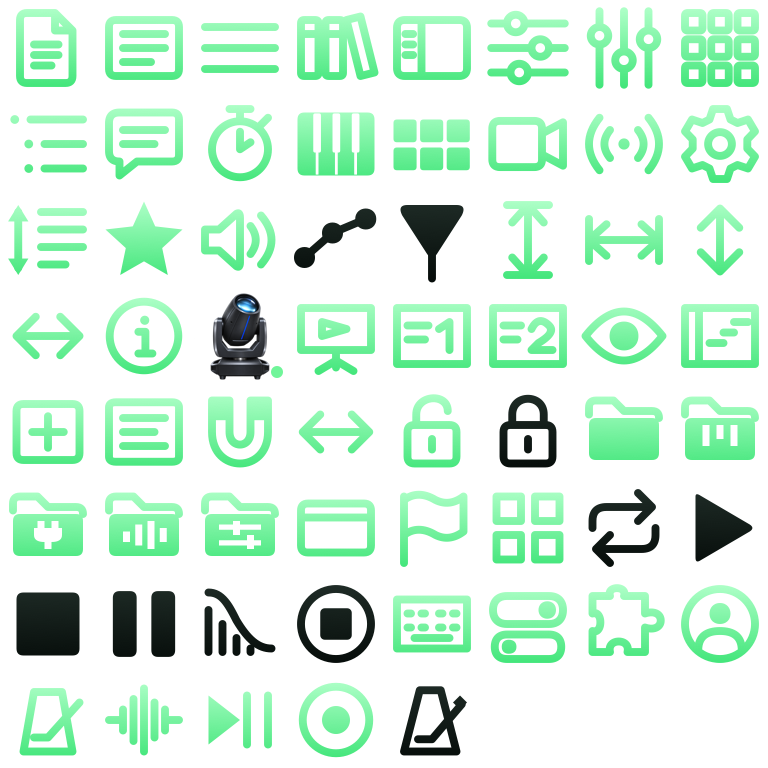
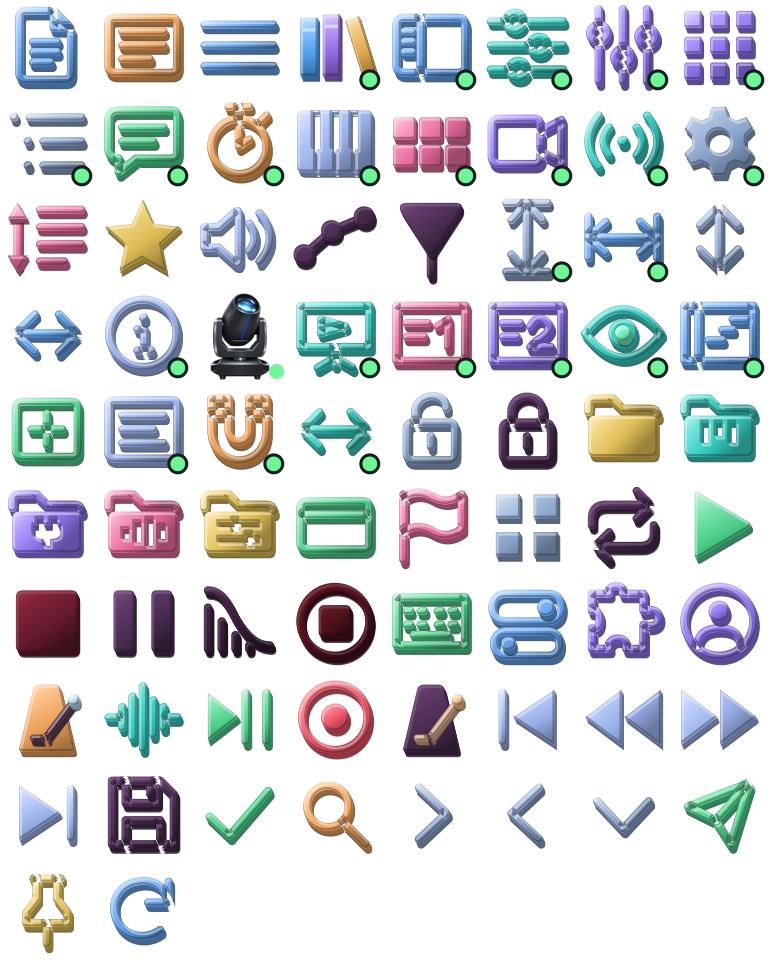
Use shared color 3D PNG artwork for the CatLive controls

diff --git a/JarasLive/scripts/generate-control-icons.swift b/JarasLive/scripts/generate-control-icons.swift
@@ -1,4 +1,5 @@
 // Run from the JarasLive root with swift scripts/generate-control-icons.swift.
+// Pass Android's drawable-nodpi directory to also export the transport drawables.
 import AppKit
 import ImageIO
 
@@ -30,6 +31,137 @@ func path(_ definition: String) -> CGPath {
     return path
 }
 
+struct Material {
+    let color: UInt32
+    var darkInk = false
+
+    private var channels: [CGFloat] {
+        [16, 8, 0].map { CGFloat((color >> $0) & 255) / 255 }
+    }
+
+    func shade(_ amount: CGFloat, alpha: CGFloat = 1) -> [CGFloat] {
+        channels.map { amount >= 0 ? $0 + (1 - $0) * amount : $0 * (1 + amount) } + [alpha]
+    }
+}
+
+let materials: [UInt32: [String]] = [
+    0x6cafff: ["doc.text", "line.3.horizontal", "sidebar.left", "fitTime", "timelineZoomAxis", "midiPreview", "tabs.mappings", "refresh"],
+    0x39dbce: ["slider.horizontal.3", "dot.radiowaves.left.and.right", "library.instruments", "itemTimebase", "projection", "eye", "tabs.waveform"],
+    0x997cff: ["pause", "slider.vertical.3", "square.grid.3x3", "video", "automationLanes", "teleprompter2", "library.plugins", "tabs.plugins", "tabs.account"],
+    0xffad61: ["stopwatch", "magnet", "note.text", "fadeout", "metronome", "tabs.metronome", "search"],
+    0x52df94: ["play", "addTrack", "tabs.transport", "text.bubble", "rectangle", "tabs.actions", "save", "check", "send"],
+    0xf773a8: ["square.grid.3x2.fill", "flag", "library.samplers", "editCursor", "teleprompter1", "arrow.up.and.down.text.horizontal"],
+    0xf1cc5c: ["folder.fill", "books.vertical", "library.presets", "star.fill", "loop", "lock", "pin"],
+    0xff5a6e: ["record", "tabs.record", "stopall"],
+    0x93afd9: ["gearshape", "fitTracks", "trackHeightAxis", "list.bullet.indent", "square.grid.2x2", "unlock", "chevron.left", "chevron.right", "chevron.down"],
+    0xa5befa: ["pianokeys", "speaker.wave.2", "timelineLanes", "info.circle", "projectStart", "previousTimelinePoint", "nextTimelinePoint", "projectEnd"],
+]
+let iconColors = Dictionary(uniqueKeysWithValues: materials.flatMap { color, names in names.map { ($0, color) } })
+let indicators: Set<String> = [
+    "books.vertical", "sidebar.left", "slider.horizontal.3", "slider.vertical.3", "square.grid.3x3",
+    "list.bullet.indent", "text.bubble", "stopwatch", "pianokeys", "square.grid.3x2.fill", "video",
+    "dot.radiowaves.left.and.right", "gearshape", "fitTracks", "fitTime", "info.circle",
+    "projection", "teleprompter1", "teleprompter2", "eye", "midiPreview", "timelineLanes",
+    "magnet", "itemTimebase"
+]
+
+func stroke(_ path: CGPath, width: CGFloat) -> CGPath {
+    path.copy(strokingWithWidth: width, lineCap: .round, lineJoin: .round, miterLimit: 2)
+}
+
+func transform(_ path: CGPath, dx: CGFloat, dy: CGFloat) -> CGPath {
+    var offset = CGAffineTransform(translationX: dx, y: dy)
+    return path.copy(using: &offset)!
+}
+
+func paintMaterial(_ context: CGContext, _ shape: CGPath, _ material: Material, prominent: Bool = false) {
+    guard !shape.isEmpty else { return }
+    let bounds = shape.boundingBoxOfPath
+    let shadow = material.shade(material.darkInk ? -0.83 : -0.71, alpha: 0.78)
+    context.setFillColor(CGColor(colorSpace: space, components: shadow)!)
+    context.addPath(transform(shape, dx: 0.7, dy: 1.6))
+    context.drawPath(using: .eoFill)
+    context.setFillColor(CGColor(colorSpace: space, components: material.shade(material.darkInk ? -0.57 : -0.41))!)
+    for step in [1.15, 0.80, 0.45] {
+        context.addPath(transform(shape, dx: CGFloat(step) * 0.55, dy: CGFloat(step)))
+        context.drawPath(using: .eoFill)
+    }
+
+    context.saveGState()
+    context.addPath(shape)
+    context.clip(using: .evenOdd)
+    let brightness: [CGFloat] = material.darkInk ? [0.10, -0.07, -0.30, -0.57] :
+        [prominent ? 0.70 : 0.55, prominent ? 0.30 : 0.16, -0.08, -0.36]
+    let gradient = CGGradient(colorSpace: space, colorComponents: brightness.flatMap { material.shade($0) },
+                              locations: [0, 0.24, 0.65, 1], count: 4)!
+    context.drawLinearGradient(gradient, start: CGPoint(x: bounds.minX, y: bounds.minY),
+                               end: CGPoint(x: bounds.maxX * 0.65 + bounds.minX * 0.35, y: bounds.maxY),
+                               options: [.drawsBeforeStartLocation, .drawsAfterEndLocation])
+
+    // A thin highlight on the upper bevel and a dark lower edge read as depth
+    // even when the toolbar presents the resulting PNG at 16 points.
+    context.setFillColor(CGColor(colorSpace: space, components: material.shade(material.darkInk ? 0.25 : 0.8, alpha: 0.48))!)
+    context.addPath(stroke(transform(shape, dx: 0.40, dy: 0.65), width: 0.7))
+    context.fillPath()
+    context.setFillColor(CGColor(colorSpace: space, components: material.shade(-0.70, alpha: 0.44))!)
+    context.addPath(stroke(transform(shape, dx: -0.24, dy: -0.48), width: 0.68))
+    context.fillPath()
+    context.restoreGState()
+}
+
+func renderSymbol(_ context: CGContext, name: String, outline: CGPath, filled: CGPath, active: Bool) {
+    let darkInk = name == "fadeout" ||
+        (active && ["pause", "editCursor", "automationLanes", "lock", "loop", "record", "stopall", "metronome", "save"].contains(name))
+    var color = iconColors[name, default: 0x90adcf]
+    if darkInk {
+        switch name {
+        case "record": color = 0x681827
+        case "stopall": color = 0x8e2540
+        case "fadeout" where active: color = 0x4c274d
+        default: color = 0x693f72
+        }
+    }
+    let material = Material(color: color, darkInk: darkInk)
+    var fills = filled
+    var lines = outline
+    switch name {
+    case "record" where active:
+        fills = CGPath(roundedRect: CGRect(x: 7.3, y: 7.3, width: 9.4, height: 9.4), cornerWidth: 1.5, cornerHeight: 1.5, transform: nil)
+    case "editCursor" where !active:
+        fills = stroke(filled, width: 2.1)
+    case "gearshape", "square.grid.2x2", "square.grid.3x3":
+        fills = outline
+        lines = CGMutablePath()
+    case "metronome", "tabs.metronome":
+        let caseBody = path("m 4 21 l 8 4 q 8.4 2.5 10 2.5 l 14 2.5 q 15.6 2.5 16 4 l 20 21 q 20.2 22 19 22 l 5 22 q 3.8 22 4 21 z")
+        paintMaterial(context, caseBody, material, prominent: active)
+        let pendulum = stroke(path("m 11.5 18 l 19.8 7 m 8 18 l 12 18"), width: 1.9)
+        paintMaterial(context, pendulum, Material(color: darkInk ? 0xe5b394 : 0x644157), prominent: active)
+        let weight = CGPath(ellipseIn: CGRect(x: 18.1, y: 5.3, width: 3.4, height: 3.4), transform: nil)
+        paintMaterial(context, weight, Material(color: darkInk ? 0xffcf92 : 0xc6edff), prominent: active)
+        return
+    case "books.vertical":
+        let covers: [(String, UInt32)] = [
+            ("m 2 4 l 7 4 l 7 21 l 2 21 z", 0x55aaff),
+            ("m 8.5 3 l 13.5 3 l 13.5 21 l 8.5 21 z", 0x9b70ef),
+            ("m 15 5 l 19 3.5 l 24 19.5 l 20 21 z", 0xf0b452)
+        ]
+        for (book, tint) in covers { paintMaterial(context, path(book), Material(color: tint), prominent: active) }
+        context.setFillColor(CGColor(colorSpace: space, components: [0.9, 0.94, 1, 0.65])!)
+        context.fill(CGRect(x: 2.7, y: 7, width: 3.6, height: 1))
+        context.fill(CGRect(x: 9.1, y: 6, width: 3.8, height: 1))
+        return
+    default:
+        break
+    }
+    paintMaterial(context, stroke(lines, width: active ? 2.35 : 2.15), material, prominent: active)
+    paintMaterial(context, fills, material, prominent: active)
+    if active && name == "eye" {
+        paintMaterial(context, CGPath(ellipseIn: CGRect(x: 9.6, y: 9.6, width: 4.8, height: 4.8), transform: nil),
+                      Material(color: 0x76ffc8), prominent: true)
+    }
+}
+
 let tile = 96, columns = 8
 let width = columns * tile, height = ((rows.count + columns - 1) / columns) * tile
 let space = CGColorSpace(name: CGColorSpace.sRGB)!
@@ -50,43 +182,14 @@ for active in [false, true] {
         let name = row[0]
         ctx.saveGState()
         ctx.translateBy(x: CGFloat(index % columns * 24), y: CGFloat(index / columns * 24))
-        // A shared optical inset leaves room for rounded line caps at every scale.
-        ctx.translateBy(x: 1.5, y: 1.5)
-        ctx.scaleBy(x: 0.875, y: 0.875)
-        let outline = path(row[1]), filled = path(row[2])
-        let darkInk = ["pause", "fadeout"].contains(name) || (active && ["editCursor", "automationLanes", "lock", "loop", "record", "play", "stopall", "metronome"].contains(name))
-        let folder = name.hasPrefix("library.") || name == "folder.fill"
-        let top: [CGFloat] = name == "record" && !active ? [1.0,0.39,0.36] : folder && !active ? [0.49,0.91,0.60] : darkInk ? [0.12,0.17,0.15] : active ? [0.68,1,0.78] : [0.95,0.96,0.98]
-        let bottom: [CGFloat] = name == "record" && !active ? [0.92,0.12,0.12] : folder && !active ? [0.19,0.65,0.34] : darkInk ? [0.025,0.05,0.04] : active ? [0.26,0.90,0.48] : [0.66,0.70,0.75]
-        let gradient = CGGradient(colorSpace: space, colorComponents: top + [1] + bottom + [1],
-                                  locations: [0, 1], count: 2)!
-        func ink(_ shape: CGPath, evenOdd: Bool = false) {
-            guard !shape.isEmpty else { return }
-            ctx.saveGState()
-            ctx.addPath(shape)
-            ctx.clip(using: evenOdd ? .evenOdd : .winding)
-            ctx.drawLinearGradient(gradient, start: CGPoint(x: 12,y: 1), end: CGPoint(x: 12,y: 23),
-                                   options: [.drawsBeforeStartLocation, .drawsAfterEndLocation])
-            ctx.restoreGState()
-        }
-        func stroke(_ shape: CGPath, _ width: CGFloat) {
-            ink(shape.copy(strokingWithWidth: width, lineCap: .round, lineJoin: .round, miterLimit: 2))
-        }
-        if active && name == "record" {
-            ink(CGPath(roundedRect: CGRect(x: 7.5, y: 7.5, width: 9, height: 9), cornerWidth: 1.3, cornerHeight: 1.3, transform: nil))
-        } else if !active && name == "editCursor" {
-            stroke(filled, 1.8)
-        } else {
-            ink(filled, evenOdd: true)
-        }
-        if active && name == "pause" { stroke(filled, 0.8) }
-        stroke(outline, active ? 2.25 : 1.85)
-        if active && name == "eye" {
-            ink(CGPath(ellipseIn: CGRect(x: 9.6, y: 9.6, width: 4.8, height: 4.8), transform: nil))
-        }
-        if active && name == "magnet" {
-            ink(CGPath(rect: CGRect(x: 4.5, y: 3.5, width: 4, height: 4), transform: nil))
-            ink(CGPath(rect: CGRect(x: 15.5, y: 3.5, width: 4, height: 4), transform: nil))
+        ctx.translateBy(x: 1.4, y: 1.0)
+        ctx.scaleBy(x: 0.86, y: 0.86)
+        renderSymbol(ctx, name: name, outline: path(row[1]), filled: path(row[2]), active: active)
+        if active && indicators.contains(name) {
+            ctx.setFillColor(red: 0.06, green: 0.13, blue: 0.10, alpha: 1)
+            ctx.fillEllipse(in: CGRect(x: 19.1, y: 19, width: 6.1, height: 6.1))
+            ctx.setFillColor(red: 0.44, green: 0.96, blue: 0.60, alpha: 1)
+            ctx.fillEllipse(in: CGRect(x: 20, y: 19.9, width: 4.3, height: 4.3))
         }
         ctx.restoreGState()
     }
@@ -100,9 +203,21 @@ for active in [false, true] {
                                    width: artSize.width, height: artSize.height))
     if active {
         ctx.setFillColor(red: 0.44, green: 0.96, blue: 0.60, alpha: 1)
-        ctx.fillEllipse(in: CGRect(x: cell.maxX - 17, y: cell.minY + 6, width: 12, height: 12))
+        ctx.fillEllipse(in: CGRect(x: cell.maxX - 19, y: cell.minY + 5, width: 15, height: 15))
     }
-    let bitmap = NSBitmapImageRep(cgImage: ctx.makeImage()!)
+    let image = ctx.makeImage()!
+    let bitmap = NSBitmapImageRep(cgImage: image)
     try bitmap.representation(using: .png, properties: [:])!.write(to: folder.appendingPathComponent(active ? "controlsOn.png" : "controlsOff.png"))
+    if let output = CommandLine.arguments.dropFirst().first {
+        let android = URL(fileURLWithPath: output, isDirectory: true)
+        let keys = active ? ["fadeout", "loop", "play", "stopall"] : ["fadeout", "loop", "pause", "play"]
+        for key in keys {
+            let index = rows.firstIndex { $0[0] == key }!
+            let rect = CGRect(x: index % columns * tile, y: index / columns * tile, width: tile, height: tile)
+            let icon = NSBitmapImageRep(cgImage: image.cropping(to: rect)!)
+            let name = "transport_\(key)_\(active ? "on" : "off").png"
+            try icon.representation(using: .png, properties: [:])!.write(to: android.appendingPathComponent(name))
+        }
+    }
 }
 try (rows.map { $0[0] }.joined(separator: "\n") + "\n").write(to: folder.appendingPathComponent("controlNames.txt"), atomically: true, encoding: .utf8)

diff --git a/JarasLive/Apple/Shared/DAWRemoteView.swift b/JarasLive/Apple/Shared/DAWRemoteView.swift
@@ -2063,8 +2063,8 @@ private struct TrackMixFeedbackPanel: View {
         let active = phonePanel == panel || (panel == .sections && horizontalPartsOpen)
         let button = Button { choosePhonePanel(panel) } label: {
             Group {
-                if panel == .sections { SectionButtonsIcon() }
-                else if let icon { Image(systemName: icon).font(.jarasSystem(size: 18, weight: .semibold)) }
+                if panel == .sections { ControlIcon(name: "list.bullet.indent", active: active, size: 21) }
+                else if let icon { ControlIcon(name: icon, active: active, size: 21) }
                 else { Text(verbatim: title).font(.jarasSystem(size: 11, weight: .bold)) }
             }.frame(width: 44, height: 44)
                 .modifier(RemoteControlSurface(color: active ? JarasTheme.green.opacity(0.14) : nil, radius: 5))
@@ -2130,23 +2130,23 @@ private struct TrackMixFeedbackPanel: View {
                 } label: { Image(systemName: "line.3.horizontal").frame(width: 44, height: 44).contentShape(Rectangle()) }
                     .accessibilityLabel("Menu")
                 phonePanelButton(.mixer, title: "Track Mixer", icon: "slider.horizontal.3")
-                phonePanelButton(.setlist, title: "Setlist", icon: "list.bullet")
+                phonePanelButton(.setlist, title: "Setlist", icon: "list.bullet.indent")
                 phonePanelButton(.grid, title: "Grid", icon: "square.grid.3x3")
                 phonePanelButton(.sections, title: "Parts")
-                phonePanelButton(.vinhetas, title: "Pads", icon: "square.grid.4x3.fill")
+                phonePanelButton(.vinhetas, title: "Pads", icon: "square.grid.3x2.fill")
                 phonePanelButton(.teleprompter1, title: "TP1")
                 phonePanelButton(.teleprompter2, title: "TP2")
                 phonePanelButton(.notices, title: "Notices", icon: "text.bubble")
-                Button { timerOpen = true } label: { Image(systemName: "clock").frame(width: 44, height: 44) }
+                Button { timerOpen = true } label: { ControlIcon(name: "stopwatch", active: timerOpen, size: 21).frame(width: 44, height: 44) }
                     .foregroundStyle(JarasTheme.toolbarTint(active: timerOpen)).accessibilityLabel("Timer")
                 IpadPreviewButton(width: 44, horizontal: false, active: state.previewActive == true, page: state.previewPage ?? 0, toggle: { action(.togglePreview) }, selectPage: { action(.selectPreviewPage, value: Double($0)) }).disabled(state.previewActive == nil)
                 Button { action(.save) } label: {
-                    ProjectSaveIcon().frame(width: 16, height: 16).frame(width: 44, height: 44)
+                    ControlIcon(name: "save", active: state.pendingSave, size: 21).frame(width: 44, height: 44)
                 }.foregroundStyle(JarasTheme.toolbarTint(active: state.saving)).disabled(!state.pendingSave || state.saving)
                     .accessibilityLabel("Save")
                 Spacer(minLength: RemoteSidebarMetrics.groupSpacing)
                 RemoteDesktopBatteryBadge(percent: state.desktopBatteryPercent, vertical: true)
-                Button { if let openSettings { openSettings() } else { settingsOpen = true } } label: { Image(systemName: "gearshape").frame(width: 44, height: 44) }
+                Button { if let openSettings { openSettings() } else { settingsOpen = true } } label: { ControlIcon(name: "gearshape", active: settingsOpen, size: 21).frame(width: 44, height: 44) }
                     .foregroundStyle(JarasTheme.toolbarTint(active: settingsOpen)).accessibilityLabel("Configurações")
                 if UIDevice.current.userInterfaceIdiom == .pad { hideSidebarButton(width: 44) }
             }.buttonStyle(RemoteFullAreaButtonStyle(surface: true)).foregroundStyle(JarasTheme.toolbarInactive)
@@ -2269,7 +2269,7 @@ private struct TrackMixFeedbackPanel: View {
                 Menu { Button("Exit Remote", action: exitRemote) } label: {
                     Image(systemName: "line.3.horizontal").frame(width: 44, height: 44).contentShape(Rectangle())
                 }.accessibilityLabel("Menu")
-                phonePanelButton(.setlist, title: "Setlist", icon: "list.bullet")
+                phonePanelButton(.setlist, title: "Setlist", icon: "list.bullet.indent")
                 phonePanelButton(.teleprompter1, title: "TP1")
                 phonePanelButton(.teleprompter2, title: "TP2")
                 Spacer(minLength: RemoteSidebarMetrics.groupSpacing)
@@ -3119,8 +3119,7 @@ private struct TrackMixFeedbackPanel: View {
             Label {
                 Text(verbatim: "Save")
             } icon: {
-                if state.pendingSave { ProjectSaveIcon().frame(width: 12, height: 12) }
-                else { Image(systemName: "checkmark") }
+                ControlIcon(name: state.pendingSave ? "save" : "check", active: state.pendingSave, size: 14)
             }
                 .font(.jarasSystem(size: 11, weight: .semibold)).lineLimit(1).minimumScaleFactor(0.8)
                 .frame(width: local ? 56 : 72, height: 28)
@@ -7794,10 +7793,11 @@ private struct RemoteNativeMixerRow: View, Equatable {
                                 width: RemoteNativeTrackControlLayout.patchWidth, touchPadding: 0, height: buttonHeight))
                         }
                         if visible(.envelope), controlLayout.env, let openAutomation {
+                            let expanded = nativeTrack?.automation?.visibleEnvelopes.isEmpty == false
                             Button(action: openAutomation) {
-                                DesktopToolbarSymbol(name: "automationLanes").frame(width: 14, height: 14)
+                                ControlIcon(name: "automationLanes", active: expanded, size: 16)
                             }.buttonStyle(RemoteNativeTrackButtonStyle(
-                                activeColor: nativeTrack?.automation?.visibleEnvelopes.isEmpty == false ? JarasTheme.green : nil,
+                                activeColor: expanded ? JarasTheme.green : nil,
                                 width: RemoteNativeTrackControlLayout.envWidth, touchPadding: 0, height: buttonHeight, usesTrackFace: true))
                                 .accessibilityLabel("Envelopes")
                         }

diff --git a/JarasLive/Apple/Shared/TransportView.swift b/JarasLive/Apple/Shared/TransportView.swift
@@ -280,14 +280,14 @@ struct TimelineNavigationControls: View {
     var width: CGFloat = 29
     var body: some View {
         HStack(spacing: 3) {
-            step(.projectStart, symbol: "backward.end.fill")
-            step(.previousTimelinePoint, symbol: "backward.fill")
-            step(.nextTimelinePoint, symbol: "forward.fill")
-            step(.projectEnd, symbol: "forward.end.fill")
+            step(.projectStart)
+            step(.previousTimelinePoint)
+            step(.nextTimelinePoint)
+            step(.projectEnd)
         }.fixedSize()
     }
-    private func step(_ action: DAWAction, symbol: String) -> some View {
-        Button { show.performAction(action) } label: { Image(systemName: symbol) }
+    private func step(_ action: DAWAction) -> some View {
+        Button { show.performAction(action) } label: { ControlIcon(name: action.rawValue, size: 16) }
             .buttonStyle(TransportButtonStyle(color: Color(hex: 0x454545), inactiveOpacity: 1,
                 fontSize: 10, width: width, height: 23, bordered: false))
             .accessibilityLabel(LocalizedStringKey(action.title)).accessibilityIdentifier(action.rawValue)
@@ -1215,8 +1215,7 @@ private struct ProjectSaveButton: View {
             Label {
                 Text(verbatim: "Save")
             } icon: {
-                if pending { ProjectSaveIcon().frame(width: 12, height: 12) }
-                else { Image(systemName: "checkmark") }
+                ControlIcon(name: pending ? "save" : "check", active: pending, size: 14)
             }
                 .font(.jarasSystem(size: TransportControlMetrics.font, weight: .semibold))
                 .lineLimit(1).minimumScaleFactor(0.8)

diff --git a/JarasLive/Apple/Shared/Theme.swift b/JarasLive/Apple/Shared/Theme.swift
@@ -338,21 +338,6 @@ struct TransportDetailSurface: View {
     }
 }
 
-struct ProjectSaveIcon: Shape {
-    func path(in rect: CGRect) -> Path {
-        let unit = min(rect.width, rect.height) / 12
-        let origin = CGPoint(x: rect.midX - unit * 6, y: rect.midY - unit * 6)
-        func point(_ x: CGFloat, _ y: CGFloat) -> CGPoint {
-            CGPoint(x: origin.x + x * unit, y: origin.y + y * unit)
-        }
-        var path = Path()
-        path.addRect(CGRect(origin: point(1, 1), size: CGSize(width: 10 * unit, height: 10 * unit)))
-        path.addLines([point(3, 1), point(3, 5), point(9, 5), point(9, 1)])
-        path.addLines([point(3, 11), point(3, 8), point(9, 8), point(9, 11)])
-        return path.strokedPath(StrokeStyle(lineWidth: unit * 1.1, lineCap: .round, lineJoin: .round))
-    }
-}
-
 struct StageButtonStyle: ButtonStyle {
     var color = JarasTheme.panel
     var active = false

diff --git a/JarasLive/Apple/Shared/WorkspaceLibrary.swift b/JarasLive/Apple/Shared/WorkspaceLibrary.swift
@@ -1003,11 +1003,7 @@ struct WorkspaceLibrary: View {
     private var samplerList: some View {
         VStack(alignment: .leading, spacing: 0) {
             HStack(spacing: 5) {
-                #if os(macOS)
-                DesktopToolbarSymbol(name: "speaker.wave.2").frame(width: 12, height: 12)
-                #else
-                Image(systemName: "speaker.wave.2").font(.jarasSystem(size: 11)).accessibilityHidden(true)
-                #endif
+                ControlIcon(name: "speaker.wave.2", size: 14)
                 Slider(value: $samplerPreviewDB, in: -60...0, step: 1)
                     .tint(JarasTheme.green)
                     .accessibilityLabel("Sample preview volume")

diff --git a/JarasLive/Apple/Shared/TrackMixerRow.swift b/JarasLive/Apple/Shared/TrackMixerRow.swift
@@ -67,7 +67,7 @@ private struct TrackEnvelopeButton: View {
         Button {
             show.toggleAutomationLanes(track)
         } label: {
-            DesktopToolbarSymbol(name: "automationLanes").frame(width: 15, height: 15)
+            ControlIcon(name: "automationLanes", active: visible, size: 16)
         }.buttonStyle(CompactTrackButtonStyle(activeColor: visible ? JarasTheme.green : nil, width: 28))
             .accessibilityLabel("Envelopes").accessibilityAddTraits(visible ? .isSelected : [])
             .jarasHelp("Envelopes")

diff --git a/JarasLive/Windows/Source/Workspace.cpp b/JarasLive/Windows/Source/Workspace.cpp
@@ -371,8 +371,7 @@ void MacLook::drawButtonText(Graphics &g, TextButton &b, bool, bool) {
     if (icon.isNotEmpty()) {
         const auto bounds = b.getLocalBounds().toFloat().withSizeKeepingCentre(iconSize, iconSize);
         const auto artwork = icon == "visibility" ? String("eye") : icon;
-        if ((icon != "automationLanes" || b.getComponentID() == "track-envelopes") &&
-            drawControlIcon(g, artwork, b.getToggleState() || b.isDown(), bounds, opacity)) return;
+        if (drawControlIcon(g, artwork, b.getToggleState() || b.isDown(), bounds, opacity)) return;
         if (drawDesktopToolbarSymbol(g, icon, bounds) || drawInterfaceIcon(g, icon, bounds)) return;
     }
     // Keep compact labels such as Patch at their natural width. Use the spare
@@ -444,7 +443,9 @@ void MacLook::drawLinearSlider(Graphics &g, int x, int y, int w, int h, float po
         const float middle = y + h * .5f;
         if (samplePreview) {
             g.setColour(Colours::white);
-            drawDesktopToolbarSymbol(g, "speaker.wave.2", {0.f, middle - 6.f, 12.f, 12.f});
+            const juce::Rectangle<float> iconBounds{0.f, middle - 7.f, 14.f, 14.f};
+            if (!drawControlIcon(g, "speaker.wave.2", false, iconBounds, 1.f))
+                drawDesktopToolbarSymbol(g, "speaker.wave.2", iconBounds);
             g.setFont(theme::font(10));
             g.drawText(slider.getTextFromValue(slider.getValue()), slider.getWidth() - 37, y, 37, h,
                        Justification::centredRight);
@@ -6520,7 +6521,7 @@ void Workspace::syncNativeTransport() {
         auto icon = model->getProperties()["leadingIcon"].toString();
         if (icon.isEmpty() && StringArray{"play", "pause", "loop", "record", "metronome"}.contains(id)) icon = id;
         state.icon = icon.toWideCharPointer();
-        static const StringArray pngIcons{"play","stopall","fadeout","pause","loop","record","metronome"};
+        static const StringArray pngIcons{"play","stopall","fadeout","pause","loop","record","metronome","save","check"};
         if (pngIcons.contains(icon)) {
             // Native transport HWNDs own their render targets. Share immutable PNG pixels between them.
             static const auto bitmaps = [] {
